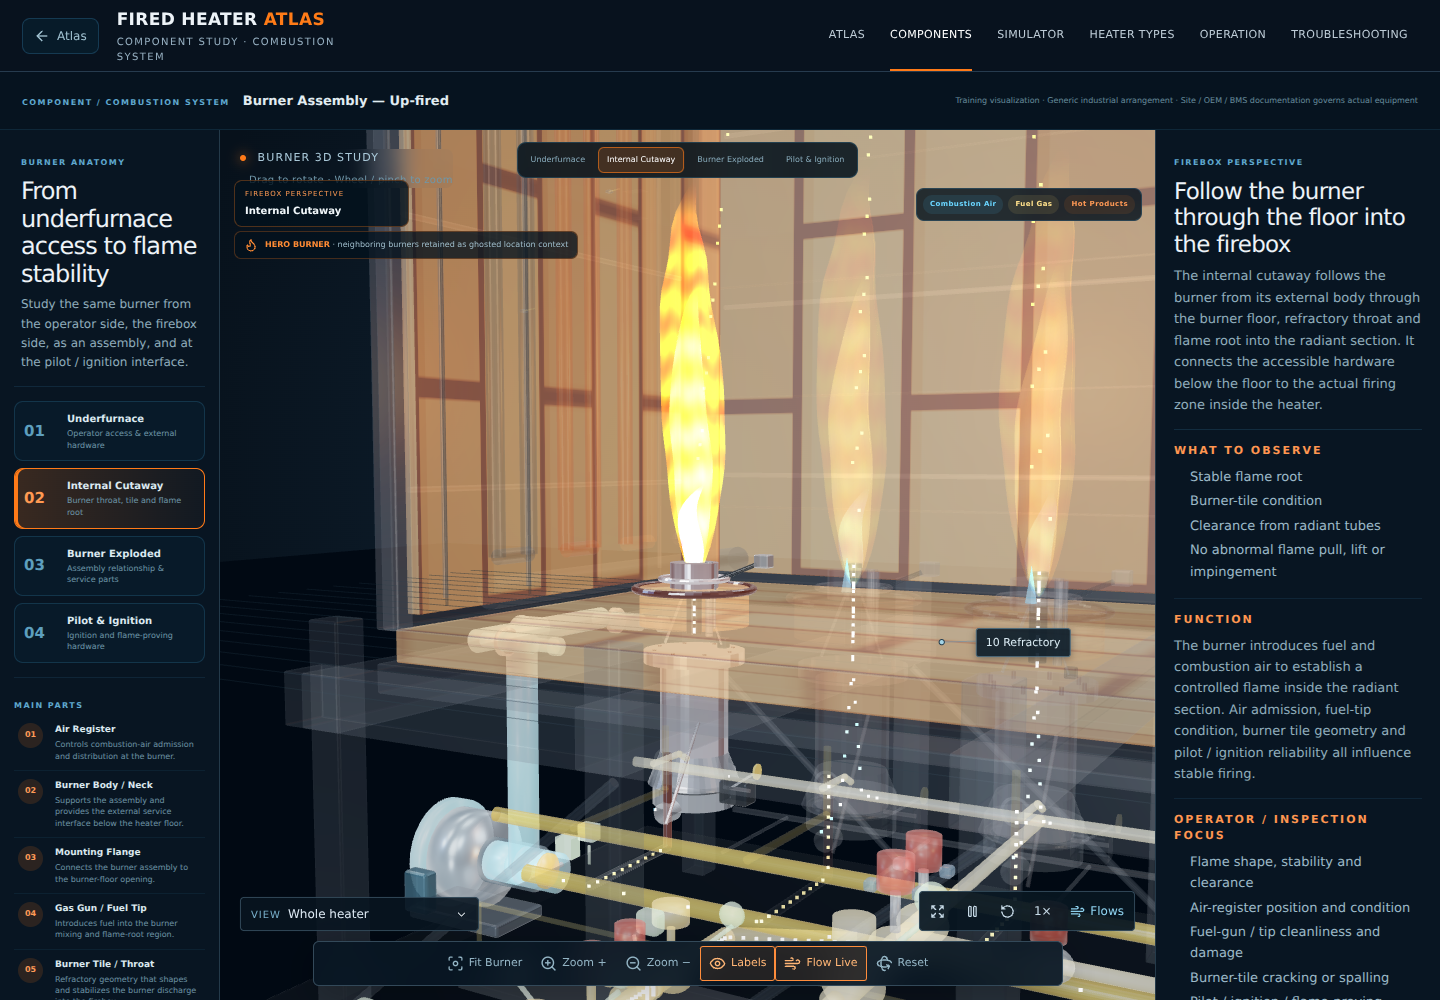
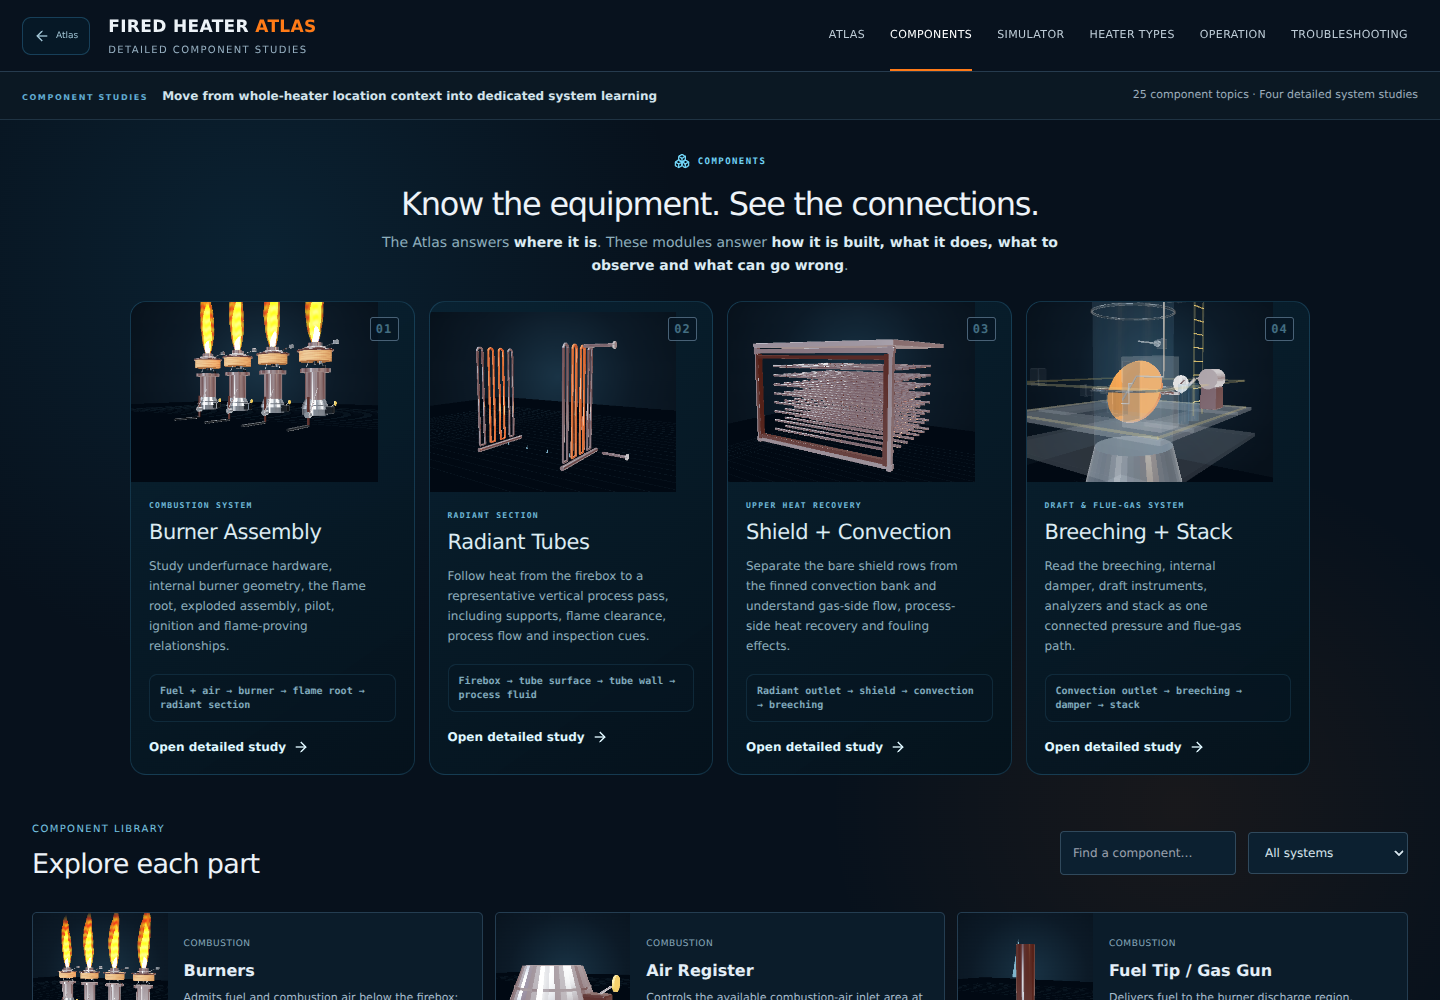
Fix navigation from component studies back to their hub
Keep the COMPONENTS destination actionable when a child study shares its active highlight. Verified all four study routes and the 25-card hub; update the gallery screenshot and validation record.

diff --git a/src/GlobalNavigation.tsx b/src/GlobalNavigation.tsx
@@ -45,7 +45,7 @@ export default function GlobalNavigation({ active, onNavigate, className = '' }:
   const activate = (target: NavigationTarget, available: boolean) => {
     if (!available) return;
     setMobileOpen(false);
-    if (target !== active) onNavigate(target);
+    onNavigate(target);
   };
 
   const mobileNavigation = createPortal(

diff --git a/docs/upgrade/validation.md b/docs/upgrade/validation.md
@@ -17,6 +17,7 @@ Validated on 27 September 2026 against the preserved production baseline `06c2be
 Chromium 153 using a software WebGL renderer. Viewports: 1440×1000, 1024×768, 390×844 and 412×915. Mobile dimensions are emulation; native Safari, Edge and physical mobile GPUs were not available for this validation. Reduced-motion mode was used for deterministic captures.
 
 - Atlas, whole-heater explode/reassemble, detailed burner, component gallery, operation and troubleshooting navigation rendered successfully.
+- A final navigation check found that the active COMPONENTS highlight prevented returning from a system study to the hub. The final integration stage now permits that navigation. All four system studies were opened and returned to the 25-card component hub in browser verification; the gallery evidence was recaptured.
 - The normal O-00 to O-14 journey was driven through its UI gates. Purge showed process/purge flow with no pilot or main flame. A failed pilot blocked progression. First main light-off showed one burner (three flame layers); normal operation showed all four burners (12 layers). Firing removal and cooldown showed zero main flames, with residual heat retained during cooldown.
 - Stack-damper extremes matched both the training readout and actual blade transform: 79° more open, 10° more closed.
 - All six flow layers could be selected and were reflected in the renderer state.
@@ -50,3 +51,7 @@ All supplied geometry metadata, technical documents and design references were a
 Separate tube-support geometry and validated cross-bank process connections are not identified in the supplied source. The application states the support limitation and does not fabricate connecting pipework. The 17 source BMS-only paths retain their default hidden state. Source procedural flame and brick recipes are reconstructed at runtime; profile area lighting is approximated with browser lights. Motion, deposits, temperatures, draft and flow cues remain qualitative training representations, not OEM kinematics or CFD.
 
 Native device performance benchmarking, geometry LOD derivatives and optional audio are deferred. Desktop and mobile currently load the same complete source geometry, with a progress/retry interface and lower mobile pixel/frame budgets. The master remains available for later measured optimization.
+
+## Publication
+
+The initial integration was merged through PR #1 as `1ab0fca788f47f482a945cb1c350048ab04e6c69`. GitHub Actions run [36356028536](https://github.com/Elsharnouby-87/New-Atlas/actions/runs/36356028536) passed every build, regression and deployment step. The live Pages GLB was downloaded and verified against the original SHA-256 and exact byte count. The component-navigation correction is delivered as a separate follow-up with browser and build verification.
